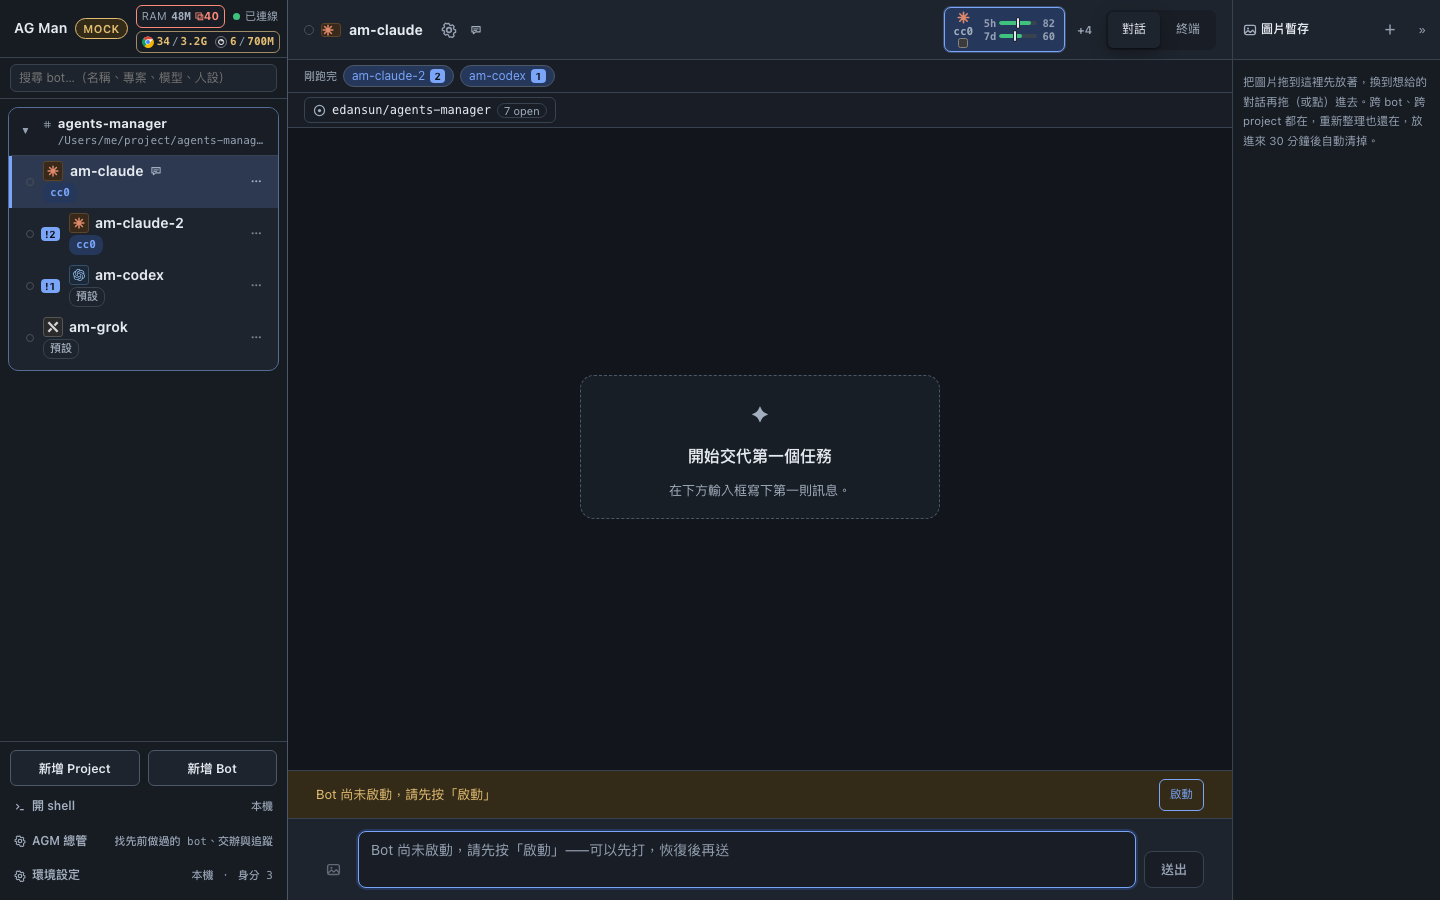
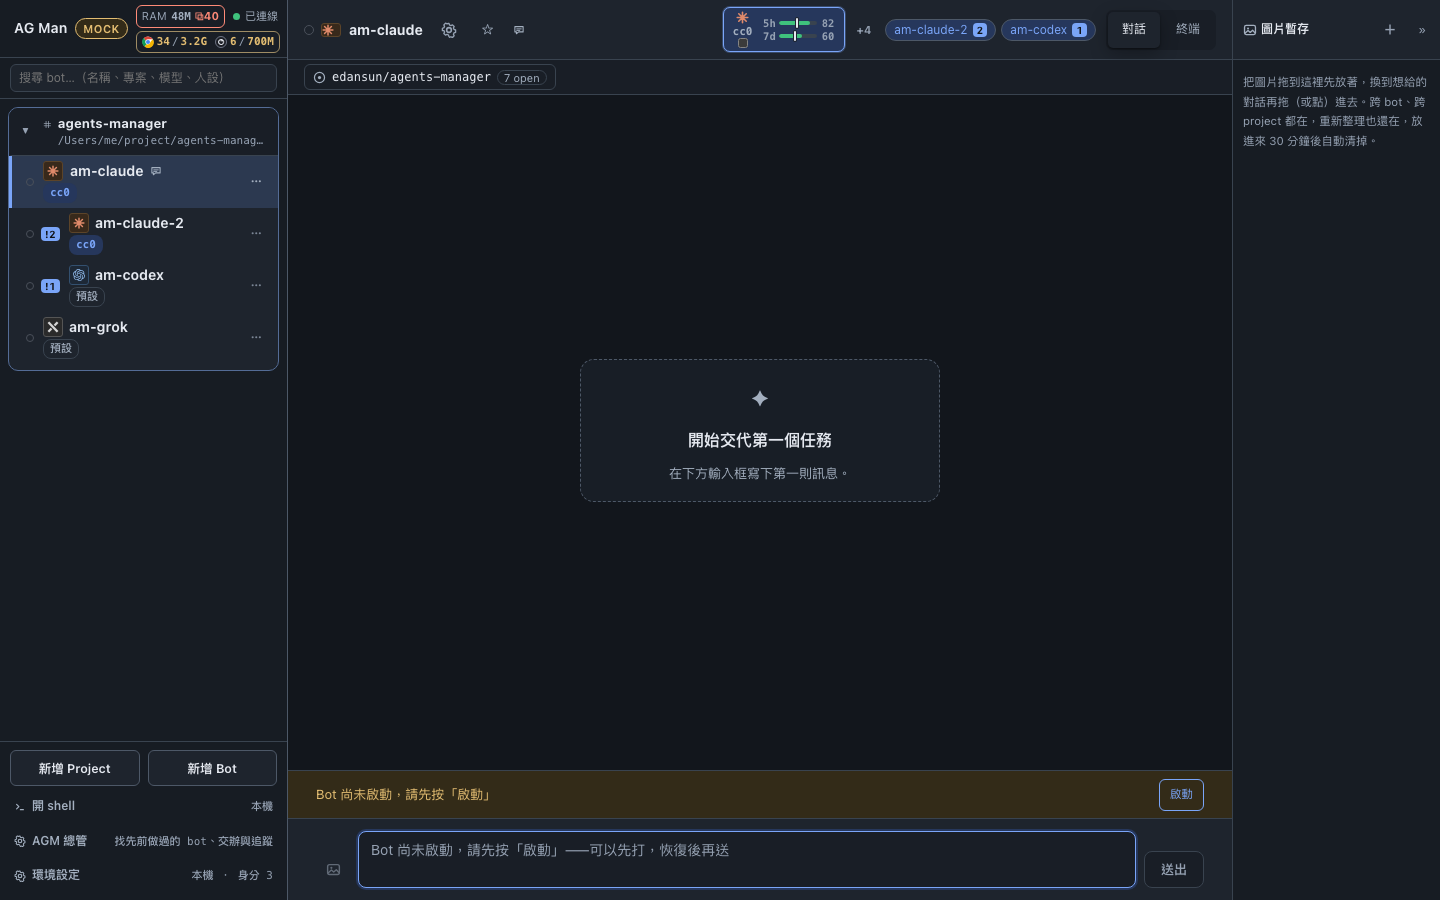
fix(web): 未讀／進行中收回標題列右上角，team 用整隊一顆
三件使用者指定的調整：
1. 位置搬回 `.main-head`、分頁鍵（對話／終端）左邊。獨立一列太吃版面，收窄之後
   剛好放得下；標題列塞不進的部分收成一顆 `+N`（點它跳到第一個被藏起來的），
   所以那條線永遠只有一行。
2. 「剛跑完」不再算 team 成員：team 的進度由它的主 issue 管，成員一句一句回話
   不是使用者要逐則追的東西。
3. 「進行中」也不列 team 成員，改成「這個 team 在跑」一顆（phase 未進終態且非
   暫停），點下去開 team 畫面——同一個 team 三顆成員各佔一格說的是同一件事。

驗證：tsc -b、oxlint（無新 warning）、bun run build；mock 截圖重拍（桌面 1440
／手機 390）在 docs/screenshots/unread-header/，舊的兩張過期截圖刪掉。
daemon 沒動，不需要重建或重啟。

Changed region(s): [[0.2188, 0.0622, 0.4062, 0.1556], [0.5, 0.0, 0.7812, 0.0622], [0.4688, 0.4356, 0.5938, 0.56]]

diff --git a/web/src/components/UnreadChip.tsx b/web/src/components/UnreadChip.tsx
@@ -1,15 +1,21 @@
 /**
- * 標題列**下面那一列**：「哪幾顆母 bot 做完了、還沒看」。
+ * 標題列右上角（分頁鍵左邊）的那一小排：「哪幾顆做完了、什麼還在跑、我釘了哪幾顆」。
  *
  * 側欄本來就會在每一列上亮未讀（`Sidebar` 的 `.unread-turns`），但側欄在手機上是收起來的、
  * 在桌面上也可能被捲到看不見的位置。使用者真正想追的是「我丟出去的那幾件事，哪些回來了」，
  * 那是一個跨 bot 的問題，所以它要待在每個畫面都看得到的地方。
  *
- * 為什麼不塞進標題列本身：`.main-head` 是固定 60px 的單行 flex，燈號、模型、額度、分頁
- * 已經在搶那條線；再擠一顆進去只會把別人擠掉。自成一列反而放得下每一顆 bot 的名字。
- * 一顆都沒有未讀時整列不佔高度（回傳 null）。
+ * 排除規則（2026-09-10 使用者）：
+ * - **team 成員不算「剛跑完」**：team 的進度由它的主 issue 管，成員一顆一顆回話不是使用者
+ *   要逐則追的東西；真要看去 team 畫面。
+ * - **進行中也不列 team 成員**，改成「這個 team 在跑」一顆——同一個 team 三顆成員各佔一格，
+ *   說的其實是同一件事。
+ *
+ * 位置在 `.main-head` 裡、分頁鍵（對話／終端）左邊，所以每一顆都要能在一行裡收好：
+ * 名字會截斷，整排不換行，什麼都沒有時回傳 null（標題列一格都不佔）。
  */
 import { useMemo } from 'react'
+import { TEAM_PHASE_LABEL, TEAM_TERMINAL_PHASES } from '../api/types'
 import { useStore } from '../store/store'
 import './unreadChip.css'
 
@@ -20,89 +26,113 @@ export function UnreadChip() {
   const botUnread = useStore((s) => s.botUnread)
   // 只算母 bot（`parent_bot_id === null`）：herdr 開出來的子 agent 是母 bot 自己的工人，
   // 它們回話是給母 bot 看的，算進來只會讓數字比使用者實際要處理的事情多。
+  // team 成員（`b.team`）同樣不算：team 的進度看它的主 issue，不是看成員各自回了幾句。
   const rows = useMemo(
     () =>
       bots
-        .filter((b) => !b.pending && b.parent_bot_id === null && (botUnread[b.id] ?? 0) > 0)
+        .filter((b) => !b.pending && b.parent_bot_id === null && !b.team && (botUnread[b.id] ?? 0) > 0)
         .map((b) => ({ id: b.id, name: b.name, n: botUnread[b.id] ?? 0 })),
     [bots, botUnread],
   )
-  // 右半邊：現在**還在跑**的母 bot。左邊是「回來了、去看」，右邊是「還在做、別等它」——
-  // 兩件事在同一列上，一眼就知道自己丟出去的工作各自到哪了。用 `agent_status` 而不是燈號：
-  // 燈號還混進了主機斷線、啟動中那幾種顏色，那些不是「進行中」。
+  // 「進行中」：還在跑的母 bot。用 `agent_status` 而不是複合燈號——燈號還混進了主機斷線、
+  // 啟動中那幾種顏色，那些不是進行中。team 成員一樣不列。
   const runs = useStore((s) => s.runs)
   const working = useMemo(
     () =>
       bots
-        .filter((b) => !b.pending && b.parent_bot_id === null && runs[b.id]?.agent_status === 'working')
+        .filter((b) => !b.pending && b.parent_bot_id === null && !b.team && runs[b.id]?.agent_status === 'working')
         .map((b) => ({ id: b.id, name: b.name })),
     [bots, runs],
+  )
+  // team 用整隊一顆：進行中的 team（phase 還沒進終態、也不是暫停）點下去開 team 畫面。
+  const teams = useStore((s) => s.teams)
+  const liveTeams = useMemo(
+    () =>
+      Object.values(teams)
+        .filter((t) => !TEAM_TERMINAL_PHASES.includes(t.phase) && t.phase !== 'paused')
+        .sort((a, b) => a.created_at.localeCompare(b.created_at))
+        .map((t) => ({ id: t.id, label: `#${t.issue_number}`, title: t.issue_title, phase: t.phase })),
+    [teams],
   )
   // 使用者自己釘的「主要執行的 bot」（`PrimaryStar`，存在 daemon）。這一排跟未讀無關：
   // 不管有沒有回覆、在不在跑都固定排在最上面，因為它回答的是另一個問題——「我平常在推的是
   // 哪幾顆」。順序照側欄（`bots` 本來就排好了）。
   const primary = useMemo(() => bots.filter((b) => !b.pending && b.primary).map((b) => ({ id: b.id, name: b.name })), [bots])
   const selectedBotId = useStore((s) => s.selectedBotId)
+  const selectedTeamId = useStore((s) => s.selectedTeamId)
   const selectBot = useStore((s) => s.selectBot)
-  if (rows.length === 0 && working.length === 0 && primary.length === 0) return null
+  const selectTeam = useStore((s) => s.selectTeam)
+  if (rows.length === 0 && working.length === 0 && primary.length === 0 && liveTeams.length === 0) return null
   // 標題列（固定 60px、擠滿了燈號／額度／分頁）放不下，所以自成一列掛在它下面：
   // 一顆 bot 一個晶片，點下去就跳過去看——不用先猜「下一個」是誰。
+  // 標題列只有那麼寬，塞不下的就收成一顆 `+N`（點它跳到第一個被藏起來的）。順序＝重要性：
+  // 釘選的 → 剛跑完 → 還在跑 → 在跑的 team。
+  const MAX = 3
+  const all = [
+    ...primary.map((r) => ({ kind: 'pinned' as const, id: r.id, name: r.name })),
+    ...rows.map((r) => ({ kind: 'done' as const, id: r.id, name: r.name, n: r.n })),
+    ...working.map((w) => ({ kind: 'working' as const, id: w.id, name: w.name })),
+    ...liveTeams.map((t) => ({ kind: 'team' as const, id: t.id, name: `team ${t.label}`, title: t.title, phase: t.phase })),
+  ]
+  const shown = all.slice(0, MAX)
+  const hidden = all.slice(MAX)
+  const go = (item: (typeof all)[number]) => (item.kind === 'team' ? selectTeam(item.id) : selectBot(item.id))
   return (
-    <>
-      {primary.length > 0 ? (
-        <div className="unread-bar primary-bar">
-          <span className="unread-bar-label">主要</span>
-          {primary.map((r) => (
-            <button
-              key={r.id}
-              type="button"
-              className={`unread-chip pinned${r.id === selectedBotId ? ' current' : ''}`}
-              title={`${r.name}（主要執行的 bot）。點一下跳過去`}
-              onClick={() => selectBot(r.id)}
-            >
-              <span className="unread-chip-star" aria-hidden="true">★</span>
-              <span className="unread-chip-name">{r.name}</span>
-              {(botUnread[r.id] ?? 0) > 0 ? <span className="unread-chip-n">{botUnread[r.id]}</span> : null}
-              {runs[r.id]?.agent_status === 'working' ? <span className="unread-chip-dot" aria-hidden="true" /> : null}
-            </button>
-          ))}
-        </div>
+    <div className="unread-strip" role="status" aria-live="polite">
+      {shown.map((it) =>
+        it.kind === 'pinned' ? (
+          <button
+            key={it.id}
+            type="button"
+            className={`unread-chip pinned${it.id === selectedBotId ? ' current' : ''}`}
+            title={`${it.name}（主要執行的 bot）。點一下跳過去`}
+            onClick={() => go(it)}
+          >
+            <span className="unread-chip-star" aria-hidden="true">★</span>
+            <span className="unread-chip-name">{it.name}</span>
+            {(botUnread[it.id] ?? 0) > 0 ? <span className="unread-chip-n">{botUnread[it.id]}</span> : null}
+            {runs[it.id]?.agent_status === 'working' ? <span className="unread-chip-dot" aria-hidden="true" /> : null}
+          </button>
+        ) : it.kind === 'done' ? (
+          <button
+            key={it.id}
+            type="button"
+            className={`unread-chip${it.id === selectedBotId ? ' current' : ''}`}
+            title={`${it.name} 有 ${it.n} 個回合已完成、還沒看過。點一下跳過去`}
+            onClick={() => go(it)}
+          >
+            <span className="unread-chip-name">{it.name}</span>
+            <span className="unread-chip-n">{it.n > 99 ? '99+' : it.n}</span>
+          </button>
+        ) : (
+          <button
+            key={it.id}
+            type="button"
+            className={`unread-chip working${it.kind === 'team' ? ' team' : ''}${
+              it.id === (it.kind === 'team' ? selectedTeamId : selectedBotId) ? ' current' : ''
+            }`}
+            title={
+              it.kind === 'team'
+                ? `Team ${it.name}・${it.title}・${TEAM_PHASE_LABEL[it.phase]}。點一下開 team 畫面`
+                : `${it.name} 還在跑。點一下過去看`
+            }
+            onClick={() => go(it)}
+          >
+            <span className="unread-chip-dot" aria-hidden="true" />
+            <span className="unread-chip-name">{it.name}</span>
+          </button>
+        ),
+      )}
+      {hidden.length > 0 ? (
+        <button
+          type="button"
+          className="unread-chip more"
+          title={`還有 ${hidden.map((h) => h.name).join('、')}。點一下跳到 ${hidden[0].name}`}
+          onClick={() => go(hidden[0])}
+        >
+          +{hidden.length}
+        </button>
       ) : null}
-      {rows.length > 0 || working.length > 0 ? (
-        <div className="unread-bar" role="status" aria-live="polite">
-          {rows.length > 0 ? <span className="unread-bar-label">剛跑完</span> : null}
-          {rows.map((r) => (
-            <button
-              key={r.id}
-              type="button"
-              className={`unread-chip${r.id === selectedBotId ? ' current' : ''}`}
-              title={`${r.name} 有 ${r.n} 個回合已完成、還沒看過。點一下跳過去`}
-              onClick={() => selectBot(r.id)}
-            >
-              <span className="unread-chip-name">{r.name}</span>
-              <span className="unread-chip-n">{r.n > 99 ? '99+' : r.n}</span>
-            </button>
-          ))}
-          {working.length > 0 ? (
-            <>
-              <span className="unread-bar-gap" />
-              <span className="unread-bar-label">進行中</span>
-              {working.map((w) => (
-                <button
-                  key={w.id}
-                  type="button"
-                  className={`unread-chip working${w.id === selectedBotId ? ' current' : ''}`}
-                  title={`${w.name} 還在跑。點一下過去看`}
-                  onClick={() => selectBot(w.id)}
-                >
-                  <span className="unread-chip-dot" aria-hidden="true" />
-                  <span className="unread-chip-name">{w.name}</span>
-                </button>
-              ))}
-            </>
-          ) : null}
-        </div>
-      ) : null}
-    </>
+    </div>
   )
 }

diff --git a/web/src/components/unreadChip.css b/web/src/components/unreadChip.css
@@ -1,25 +1,19 @@
-/* 標題列底下的未讀列（`UnreadChip`）。沒有未讀時元素根本不存在，所以這一列不留空高度。 */
-.unread-bar {
+/* 標題列右上角（分頁鍵左邊）那一小排（`UnreadChip`）。標題列是固定 60px 的單行，所以這裡
+   不換行、也不自己撐高度；沒東西可顯示時元素根本不存在。 */
+.unread-strip {
   display: flex;
   align-items: center;
-  flex-wrap: wrap;
-  gap: 6px;
-  padding: 5px 16px;
-  border-bottom: 1px solid var(--border);
-  background: var(--bg-sunken);
-}
-
-.unread-bar-label {
-  font-size: 11px;
-  color: var(--text-dim);
-  white-space: nowrap;
+  flex: 0 1 auto;
+  gap: 5px;
+  min-width: 0;
+  overflow: hidden;
 }
 
 .unread-chip {
   display: inline-flex;
   align-items: center;
   gap: 5px;
-  max-width: 220px;
+  max-width: 120px;
   padding: 1px 8px;
   border: 1px solid var(--border-strong);
   border-radius: 999px;
@@ -33,13 +27,6 @@
 .unread-chip:hover {
   background: var(--bg-active);
   border-color: var(--accent);
-}
-
-/* 「進行中」推到最右邊：左半邊是要處理的（剛跑完），右半邊是不用管的（還在跑）。
-   一列塞不下時 flex-wrap 會讓它掉到下一行，這個 spacer 就自然消失。 */
-.unread-bar-gap {
-  flex: 1 1 auto;
-  min-width: 8px;
 }
 
 /* 還在跑的：中性色，別跟「該去看」的藍色搶注意力。 */
@@ -91,11 +78,6 @@
   font-variant-numeric: tabular-nums;
 }
 
-/* 「主要」那一排：跟未讀那排同一個骨架，但它是常駐的，所以底色壓得更淡、不搶眼。 */
-.unread-bar.primary-bar {
-  background: var(--bg-panel);
-}
-
 .unread-chip.pinned {
   background: transparent;
   color: var(--text);
@@ -121,4 +103,19 @@
 
 .icon-btn.primary-star.on {
   color: var(--lamp-yellow);
+}
+
+/* 塞不下的收成一顆 `+N`。 */
+.unread-chip.more {
+  padding: 1px 6px;
+  font-variant-numeric: tabular-nums;
+  color: var(--text-dim);
+  background: transparent;
+}
+
+/* 手機：標題列本來就會換行，名字留著（少了名字分不出是哪一顆），只把上限縮短。 */
+@media (max-width: 720px) {
+  .unread-chip {
+    max-width: 96px;
+  }
 }

diff --git a/web/src/components/ChatPanel.tsx b/web/src/components/ChatPanel.tsx
@@ -1199,9 +1199,9 @@ export function ChatPanel({ onOpenSidebar }: { onOpenSidebar: () => void }) {
           </button>
           <span className="main-status">未選擇 Bot</span>
           <span className="spacer" />
+          <UnreadChip />
           <QuotaStrip />
         </div>
-        <UnreadChip />
         <EmptyState title="尚未選擇 Bot" icon="◎">
           從左側選擇一個 Bot，或先新增 Project 與 Bot。
         </EmptyState>
@@ -1304,6 +1304,7 @@ export function ChatPanel({ onOpenSidebar }: { onOpenSidebar: () => void }) {
         <QuotaStrip focusKind={bot.kind} focusIdentity={bot.identity} host={hostName} />
         {/* 遠端才掛：本機的數字固定在左上角，這裡再放一次只是重複。 */}
         <MemBadge host={hostName} onlyRemote />
+        <UnreadChip />
         <div className="tabs" role="tablist">
           <button
             type="button"
@@ -1336,7 +1337,6 @@ export function ChatPanel({ onOpenSidebar }: { onOpenSidebar: () => void }) {
           ) : null}
         </div>
       </div>
-      <UnreadChip />
       {runDebugOpen ? <RunDebugBar botId={botId} /> : null}
       <ToolsHint focusHost={hostName} focusKinds={[bot.kind]} />
       {/* The repo chip and the status bar were a row each; neither fills one, so they share.

diff --git a/web/src/components/TeamPanel.tsx b/web/src/components/TeamPanel.tsx
@@ -1071,6 +1071,7 @@ export function TeamPanel({ teamId, onOpenSidebar }: { teamId: string; onOpenSid
         <QuotaStrip focusKind={memberKind} host={project?.host ?? LOCAL_HOST} />
         {/* 遠端才掛：本機的數字固定在左上角。 */}
         <MemBadge host={project?.host ?? LOCAL_HOST} onlyRemote />
+        <UnreadChip />
         <div className="head-actions">
           {gated ? (
             <button
@@ -1201,7 +1202,6 @@ export function TeamPanel({ teamId, onOpenSidebar }: { teamId: string; onOpenSid
           </HeadMoreMenu>
         </div>
       </div>
-      <UnreadChip />
 
       <div className="team-subhead">
         {/* 交付方式是「建立時就決定的設定」，不是會變的狀態，所以從標題列搬到這裡——

diff --git a/web/src/components/GroupChatPanel.tsx b/web/src/components/GroupChatPanel.tsx
@@ -605,13 +605,13 @@ export function GroupChatPanel({ projectId, onOpenSidebar }: { projectId: string
         {/* 遠端才掛：本機的數字固定在左上角，這裡再放一次只是重複。 */}
         <MemBadge host={hostName} onlyRemote />
         <AttachButton command={attachCommand} compact />
+        <UnreadChip />
         <div className="head-actions">
           <button type="button" className="mini-btn" onClick={() => selectProject(null)} title="回到單一 Bot 的對話">
             關閉群組
           </button>
         </div>
       </div>
-      <UnreadChip />
       <ToolsHint focusHost={hostName} focusKinds={memberKinds} />
       {memberCount === 0 ? (
         <EmptyState

diff --git a/web/src/components/TeamLaunchPanel.tsx b/web/src/components/TeamLaunchPanel.tsx
@@ -343,13 +343,13 @@ export function TeamLaunchPanel({
         {/* 組隊是最花額度的一個動作（多個成員各自跑），所以決定按不按「建立並啟動」之前，
             這裡就要看得到剩多少——跟聊天頁、群組頁、team 頁同一條 `.quota-strip`。 */}
         <QuotaStrip host={host} />
+        <UnreadChip />
         <div className="head-actions">
           <button type="button" className="mini-btn" onClick={closeTeamLaunch} title="不建立 team，回到原本的畫面">
             取消
           </button>
         </div>
       </div>
-      <UnreadChip />
 
       <div className="team-launch">
         <section className="team-issue">
